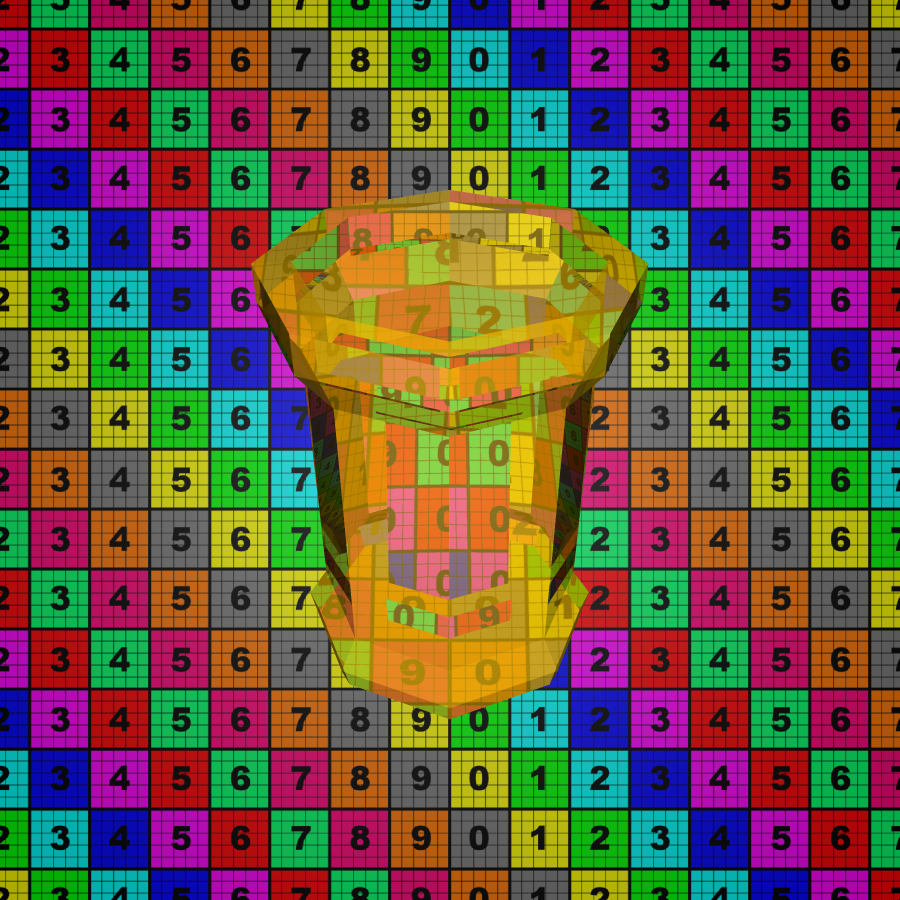
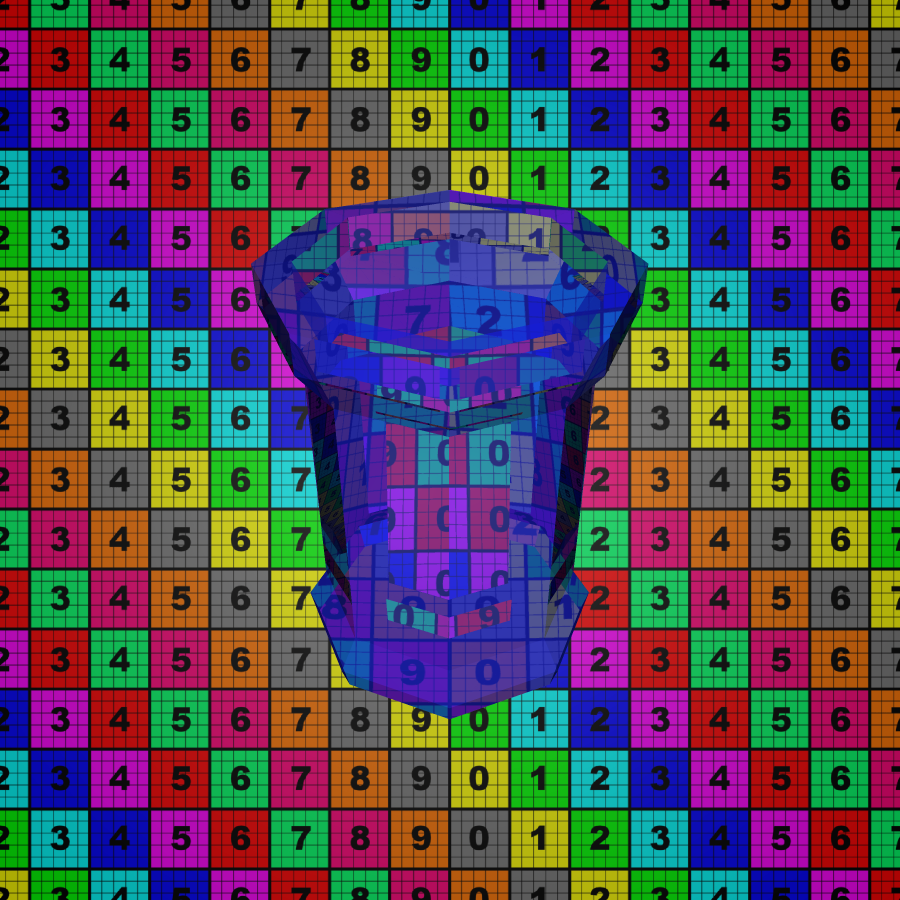
Adding bounding box for polygon

Changed region(s): [[0.28, 0.1867, 0.7156, 0.8089]]

diff --git a/src/main/java/rayTracer/utils/BoundingBox.java b/src/main/java/rayTracer/utils/BoundingBox.java
@@ -1,0 +1,117 @@
+package rayTracer.utils;
+
+import lombok.Data;
+import rayTracer.math.Line3D;
+
+@Data
+public class BoundingBox {
+    private final static double EPSILON = 0.0001;
+    private final double front;
+    private final double back;
+    private final double right;
+    private final double left;
+    private final double top;
+    private final double bottom;
+
+    public BoundingBox(
+            double front,
+            double back,
+            double right,
+            double left,
+            double top,
+            double bottom
+    ) {
+        this.front = front;
+        this.back = back;
+        this.right = right;
+        this.left = left;
+        this.top = top;
+        this.bottom = bottom;
+    }
+
+    public boolean hit(Line3D localRay) {
+        double x0, y0, z0, a, b, c;
+        x0 = localRay.getPX();
+        y0 = localRay.getPY();
+        z0 = localRay.getPZ();
+        a = localRay.getVX();
+        b = localRay.getVY();
+        c = localRay.getVZ();
+
+        double t;
+        double x, y, z;
+        if (c > EPSILON || c < -EPSILON) {
+            // UP
+            t = (top - z0) / c;
+            if(t > 0) {
+                x = x0 + a * t;
+                y = y0 + b * t;
+                z = top;
+
+                if (y >= left && y <= right && x >= front && x <= back) {
+                    return true;
+                }
+            }
+            // DOWN
+            t = (bottom -z0) / c;
+            if(t > 0) {
+                x = x0 + a * t;
+                y = y0 + b * t;
+                z = bottom;
+
+                if (y >= left && y <= right && x >= front && x <= back) {
+                    return true;
+                }
+            }
+        }
+        if (b > EPSILON || b < -EPSILON) {
+            // LEFT
+            t = (left - y0) / b;
+            if(t > 0) {
+                x = x0 + a * t;
+                y = left;
+                z = z0 + c * t;
+
+                if (z >= bottom && z <= top && x >= front && x <= back) {
+                    return true;
+                }
+            }
+            // RIGHT
+            t = (right -y0) / b;
+            if(t > 0) {
+                x = x0 + a * t;
+                y = right;
+                z = z0 + c * t;
+
+                if (z >= bottom && z <= top && x >= front && x <= back) {
+                    return true;
+                }
+            }
+        }
+        if (a > EPSILON || a < -EPSILON) {
+            // BACK
+            t = (back - x0) / a;
+            if(t > 0) {
+                x = back;
+                y = y0 + b * t;
+                z = z0 + c * t;
+
+                if (z >= bottom && z <= top && y >= left && y <= right) {
+                    return true;
+                }
+            }
+            // FRONT
+            t = (front - x0) / a;
+            if(t > 0) {
+                x = front;
+                y = y0 + b * t;
+                z = z0 + c * t;
+
+                if (z >= bottom && z <= top && y >= left && y <= right) {
+                    return true;
+                }
+            }
+        }
+        return false;
+    }
+}

diff --git a/src/main/java/rayTracer/objects/baseObjects/composedObjects/triangleMade/Polygon.java b/src/main/java/rayTracer/objects/baseObjects/composedObjects/triangleMade/Polygon.java
@@ -8,6 +8,7 @@ import rayTracer.math.Point3D;
 import rayTracer.math.Triangle;
 import rayTracer.math.Vector3D;
 import rayTracer.objects.baseObjects.BaseObject;
+import rayTracer.utils.BoundingBox;
 import rayTracer.utils.Color;
 import rayTracer.utils.Intersection;
 import rayTracer.utils.IntersectionManager;
@@ -19,6 +20,7 @@ import java.util.ArrayList;
 import java.util.List;
 
 public class Polygon extends BaseObject {
+    private BoundingBox boundingBox;
     private PolygonTypeEnum type;
     private double[] values;
     private final List<Triangle> triangles;
@@ -283,6 +285,8 @@ public class Polygon extends BaseObject {
     public void hit(Line3D ray, List<Intersection> intersections) throws Exception {
         Line3D localRay = transform.apply(ray, MatrixTransformEnum.TO_LOCAL);
 
+        if(boundingBox != null && !boundingBox.hit(localRay)) { return; }
+
         List<Intersection> tmp = new ArrayList<>();
         for (Triangle tr: triangles) {
             Point3D localIntersection = tr.hit(localRay);
@@ -290,7 +294,7 @@ public class Polygon extends BaseObject {
                 Point3D realIntersection = transform.apply(localIntersection, MatrixTransformEnum.TO_REAL);
                 Vector3D localNormal = tr.getNormal();
                 if (Vector3D.angleBetween(localRay.getVector(), localNormal) < 90)
-                    localNormal = Vector3D.inverse(localNormal);
+                    localNormal = tr.getInvertNormal();
                 Vector3D realNormal = this.transform.apply(localNormal, MatrixTransformEnum.TO_REAL);
                 tmp.add(new Intersection(
                         realIntersection,
@@ -306,5 +310,23 @@ public class Polygon extends BaseObject {
         IntersectionManager.getIntersections(localRay, blackObjects, blackIntersections);
         IntersectionManager.preProcessIntersections(tmp, blackIntersections);
         intersections.addAll(tmp);
+    }
+
+    public void createBoundingBox() {
+        double front = 10000000;
+        double back = -10000000;
+        double right = -10000000;
+        double left = 10000000;
+        double top = -10000000;
+        double bottom = 10000000;
+        for(Triangle triangle: triangles) {
+            front = Math.min(front, Math.min(triangle.getP1().getX(), Math.min(triangle.getP2().getX(), triangle.getP3().getX())));
+            back = Math.max(back, Math.max(triangle.getP1().getX(), Math.max(triangle.getP2().getX(), triangle.getP3().getX())));
+            right = Math.max(right, Math.max(triangle.getP1().getY(), Math.max(triangle.getP2().getY(), triangle.getP3().getY())));
+            left = Math.min(left, Math.min(triangle.getP1().getY(), Math.min(triangle.getP2().getY(), triangle.getP3().getY())));
+            top = Math.max(top, Math.max(triangle.getP1().getZ(), Math.max(triangle.getP2().getZ(), triangle.getP3().getZ())));
+            bottom = Math.min(bottom, Math.min(triangle.getP1().getZ(), Math.min(triangle.getP2().getZ(), triangle.getP3().getZ())));
+        }
+        this.boundingBox = new BoundingBox(front, back, right, left, top, bottom);
     }
 }

diff --git a/src/main/java/rayTracer/utils/SceneMaker.java b/src/main/java/rayTracer/utils/SceneMaker.java
@@ -1614,10 +1614,11 @@ public class SceneMaker {
         Polygon polygon = ObjectFileReader.read("./src/main/resources/blender/tower.obj");
         polygon.updateMatrices(0, -37, 0, 1, 1, 1, 0, 0, -0);
         polygon.clearColors();
-        //polygon.addColor(new Color(.09, .12, .89, 0.4));
-        polygon.addColor(new Color("#ffc500", 0.4));
+        polygon.addColor(new Color(.09, .12, .89, 0.4));
+        //polygon.addColor(new Color("#ffc500", 0.4));
         polygon.setCapacity(CapacityTypeEnum.FULL);
         polygon.density = 2.0;
+        polygon.createBoundingBox();
         objects.add(polygon);
 
         Plane plane2 = new Plane(new Color(0.9, 0.1, 0));

diff --git a/src/main/java/rayTracer/math/Triangle.java b/src/main/java/rayTracer/math/Triangle.java
@@ -1,20 +1,21 @@
 package rayTracer.math;
 
+import lombok.Getter;
+
+@Getter
 public class Triangle {
     private Point3D p1;
     private Point3D p2;
     private Point3D p3;
     private Vector3D normal;
+    private Vector3D invertNormal;
 
     public Triangle(Point3D p1, Point3D p2, Point3D p3) {
         this.p1 = new Point3D(p1);
         this.p2 = new Point3D(p2);
         this.p3 = new Point3D(p3);
         this.normal = Vector3D.crossProduct(new Vector3D(p1, p2), new Vector3D(p1, p3));
-    }
-
-    public Vector3D getNormal() {
-        return this.normal;
+        this.invertNormal = Vector3D.inverse(normal);
     }
 
     public Point3D hit(Line3D ray) {
